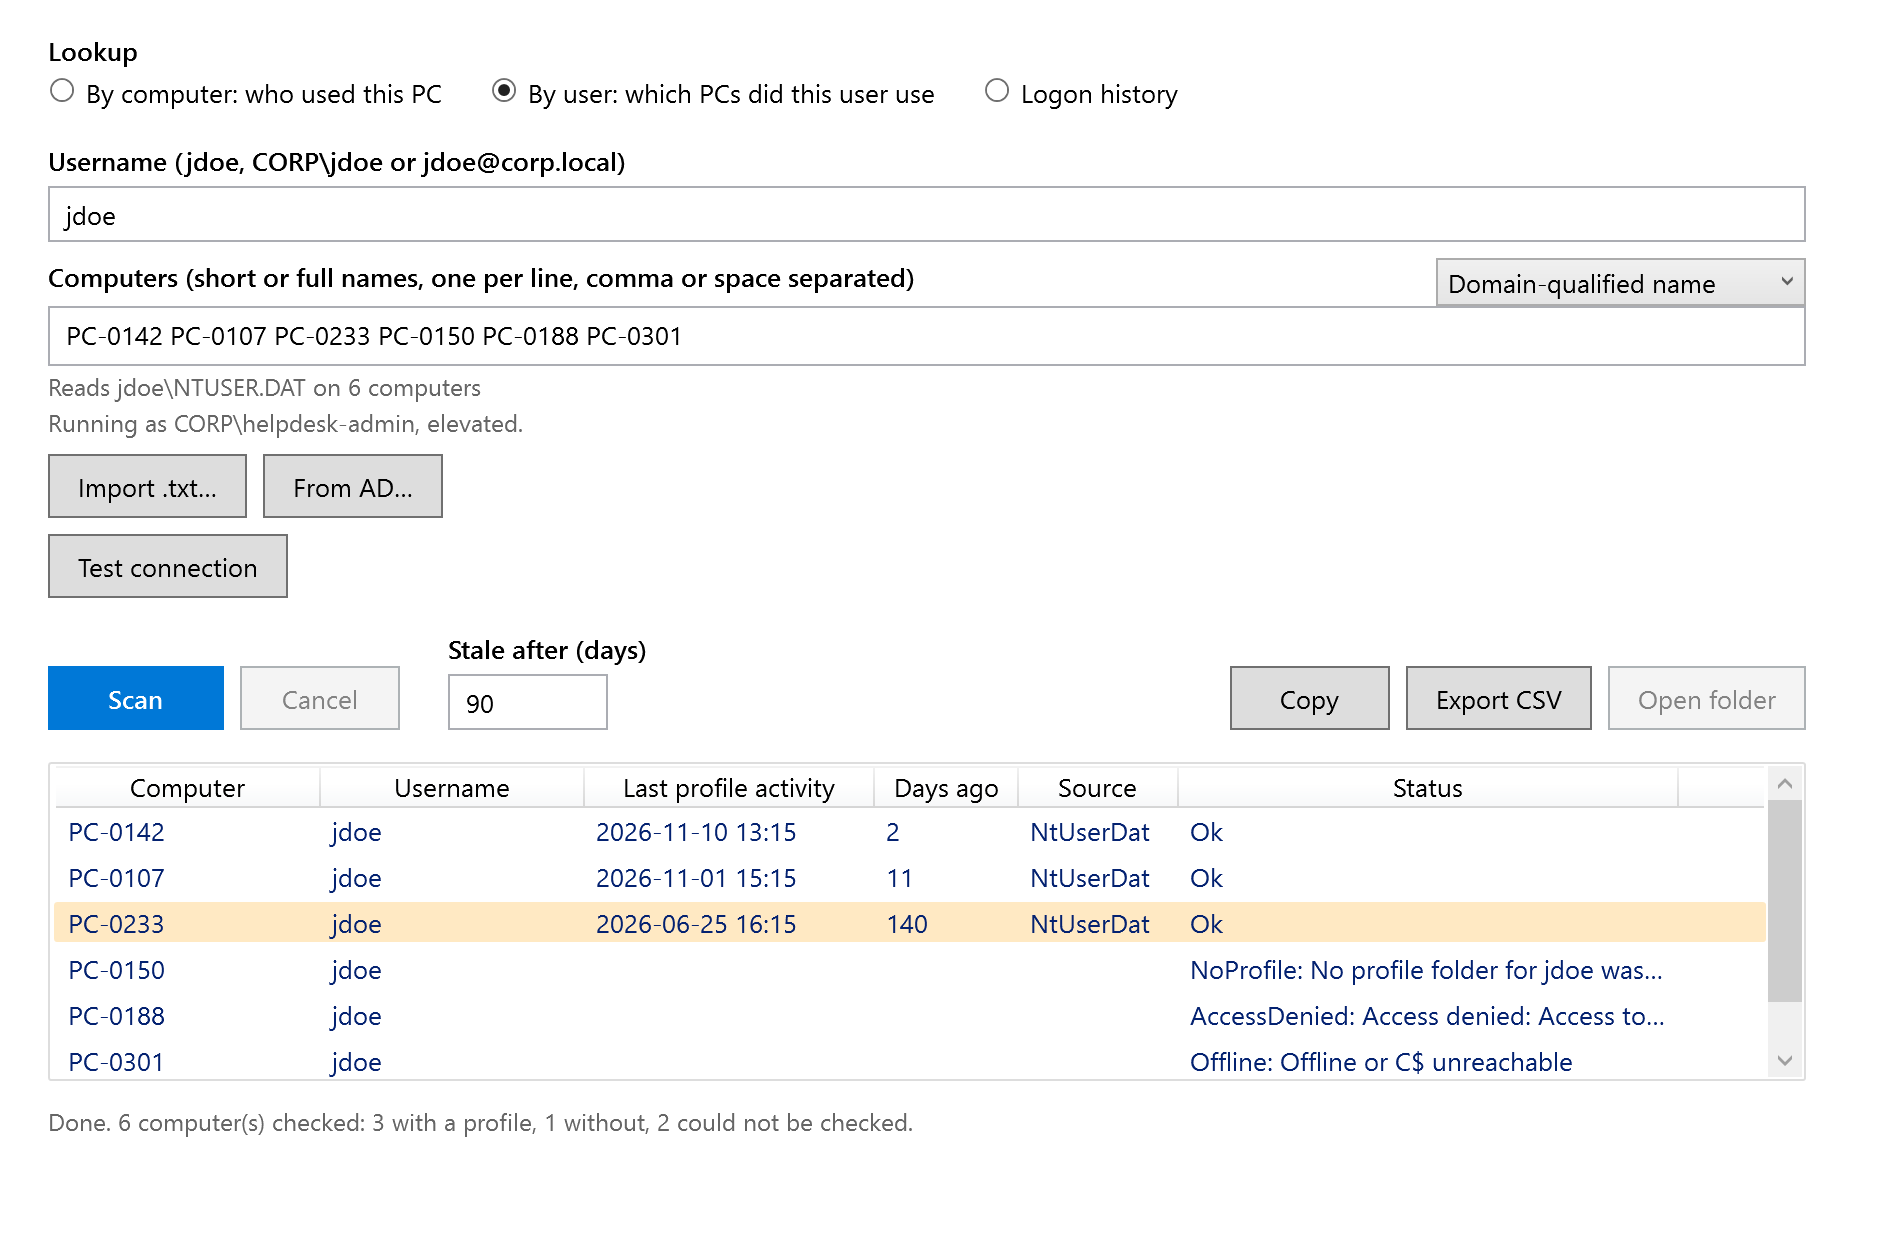
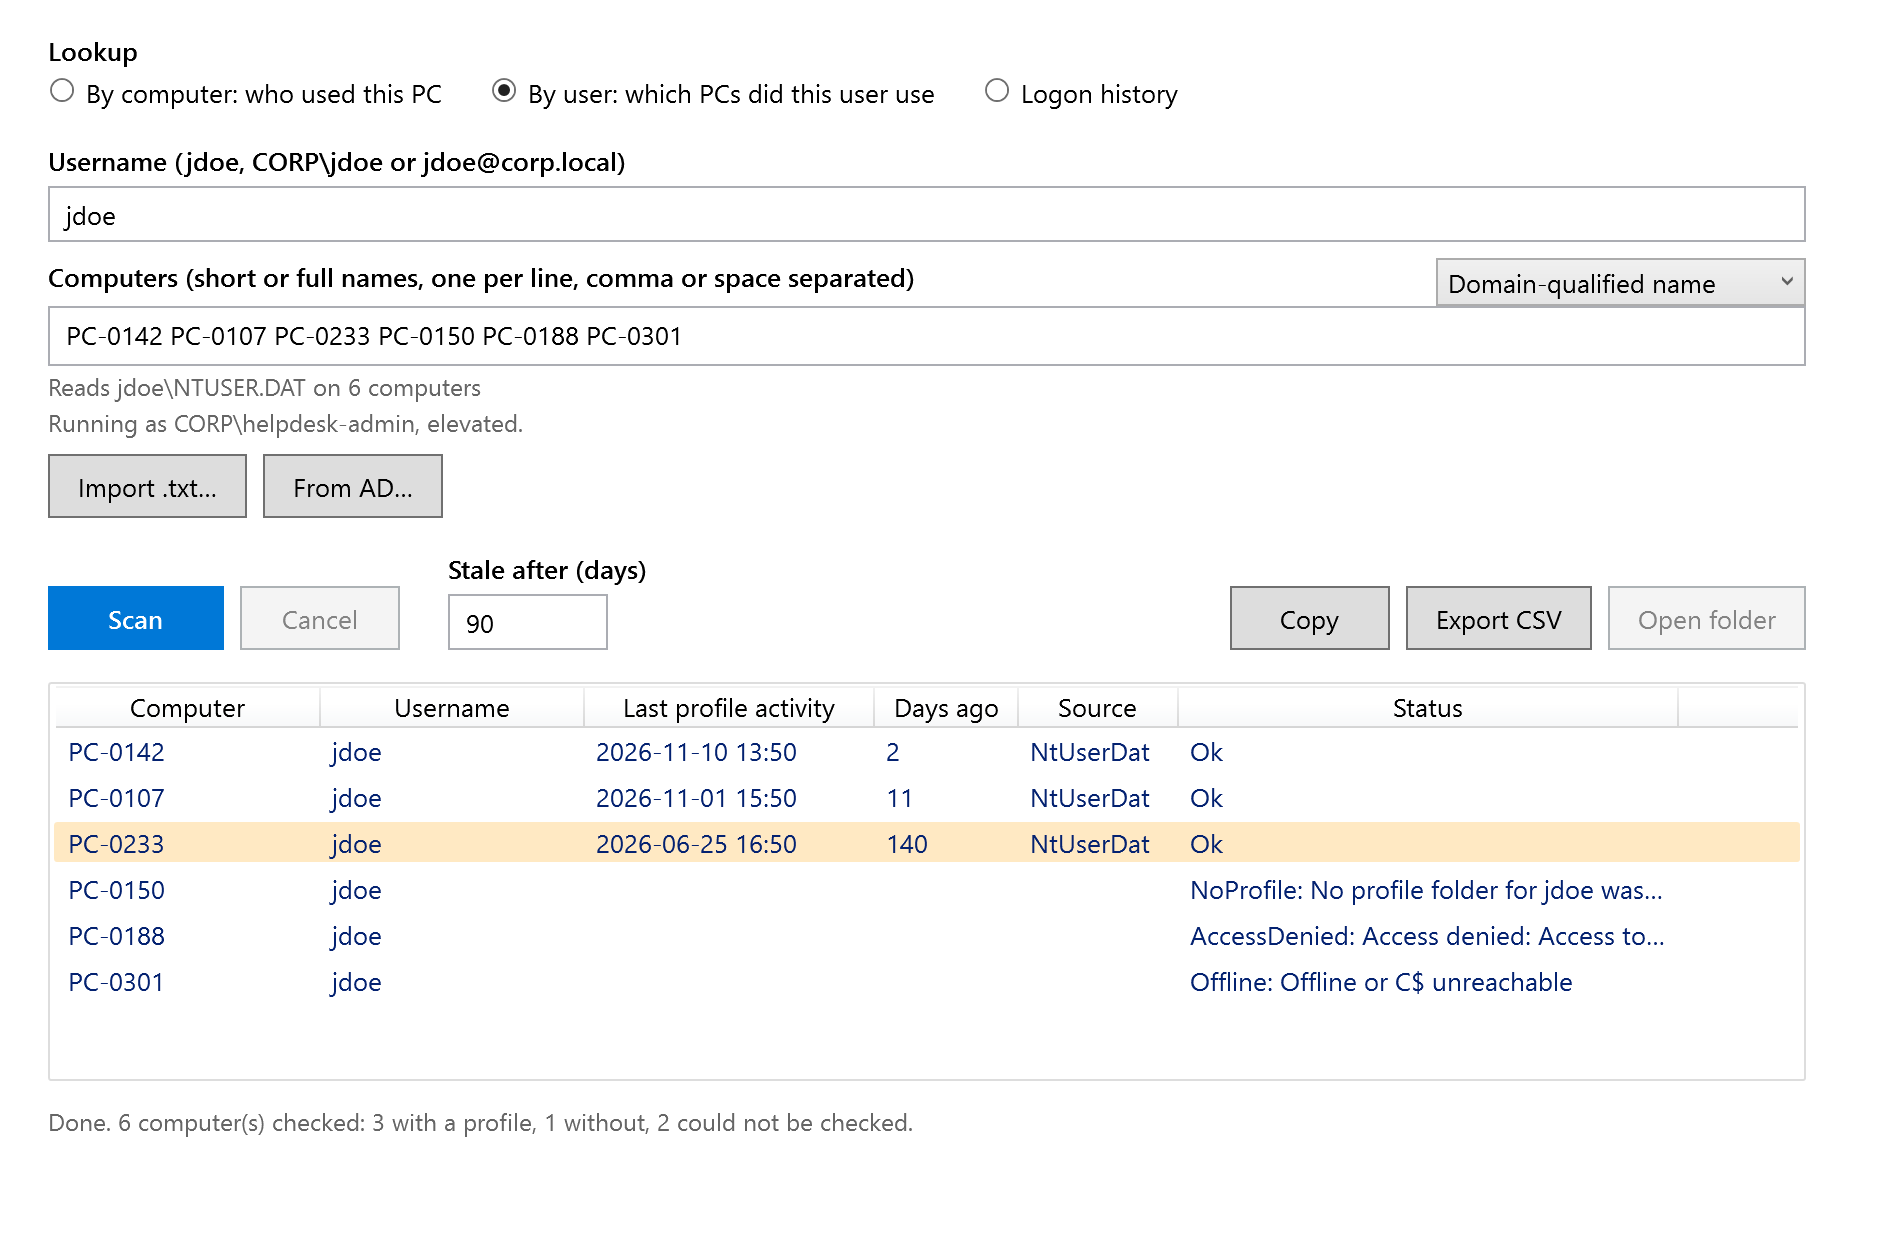
Remove the Test connection button
The button, its status text and its click handler are gone from the window. The
connection check itself stays in Core, because a scan row that fails with access
denied still uses it to show which address each name resolves to.

The sample screenshot is regenerated without the button, and the QA report notes
that the findings which mention it describe the earlier build.

Changed region(s): [[0.0, 0.429, 0.9564, 0.8581], [0.4628, 0.5516, 0.5245, 0.5823]]

diff --git a/ScanWindow.xaml b/ScanWindow.xaml
@@ -96,16 +96,6 @@
                 <Button Content="Import .txt…" Click="Import_Click" Margin="0,0,8,0" />
                 <Button Content="From AD…" Click="FromAd_Click" />
             </StackPanel>
-            <Grid Margin="0,8,0,0">
-                <Grid.ColumnDefinitions>
-                    <ColumnDefinition Width="Auto" />
-                    <ColumnDefinition Width="*" />
-                </Grid.ColumnDefinitions>
-                <Button x:Name="TestButton" Grid.Column="0" Content="Test connection" Click="Test_Click"
-                        ToolTip="Check whether the computer can be reached and which name reaches it" />
-                <TextBlock x:Name="ConnectionTestLabel" Grid.Column="1" Style="{StaticResource Caption}"
-                           Margin="8,0,0,0" VerticalAlignment="Center" TextWrapping="Wrap" />
-            </Grid>
             <StackPanel x:Name="HistoryPanel" Visibility="Collapsed" Margin="0,10,0,0">
                 <Grid>
                     <Grid.ColumnDefinitions>

diff --git a/ScanWindow.xaml.cs b/ScanWindow.xaml.cs
@@ -21,7 +21,6 @@ public partial class ScanWindow : Window
     private readonly MainViewModel _vm;
     private readonly LogonHistoryViewModel _historyVm;
     private bool _hasCompletedScan;
-    private int _connectionTestGeneration;
     private const string LocalDateTimeFormat = "yyyy-MM-dd HH:mm";
 
     public ScanWindow()
@@ -32,9 +31,9 @@ public partial class ScanWindow : Window
             else Dispatcher.BeginInvoke(action);
         };
 
-        // A computer that answers "access denied" is looked into with the same test as the Test
-        // connection button, using the addressing the operator selected, so that the row says
-        // which address each name reaches.
+        // A computer that answers "access denied" is looked into with a connection test, using
+        // the addressing the operator selected, so that the row says which address each name
+        // reaches.
         _vm = new MainViewModel(
             new ProfileScanner(
                 new SmbProfileFileSystem(),
@@ -211,7 +210,6 @@ public partial class ScanWindow : Window
         if (sender == ComputersBox)
         {
             ComputersErrorLabel.Visibility = Visibility.Collapsed;
-            ClearConnectionTest();
             UpdateComputerTargetHint();
         }
 
@@ -227,75 +225,6 @@ public partial class ScanWindow : Window
             StatusLabel.Text = "Ready";
     }
 
-    /// <summary>
-    /// Checks whether the computer can be reached and reports which name reaches it. It is the
-    /// difference between a name that is wrong and a share that cannot be read.
-    /// </summary>
-    private async void Test_Click(object sender, RoutedEventArgs e)
-    {
-        IReadOnlyList<string> computers;
-        try
-        {
-            computers = InputParser.ParseComputers(ComputersBox.Text);
-        }
-        catch (FormatException)
-        {
-            ConnectionTestLabel.Text = "Enter a computer name first.";
-            return;
-        }
-
-        if (computers.Count != 1)
-        {
-            ConnectionTestLabel.Text = "Enter a single computer name to test it.";
-            return;
-        }
-
-        var computer = computers[0];
-        var generation = ++_connectionTestGeneration;
-        ConnectionTestLabel.Text = "Testing " + computer + "…";
-        TestButton.IsEnabled = false;
-        try
-        {
-            var result = await Task.Run(() => ConnectionTest.Run(computer, ComputerTarget.AddressingMode));
-            if (generation == _connectionTestGeneration)
-                ConnectionTestLabel.Text = Describe(result);
-        }
-        catch (Exception ex)
-        {
-            if (generation == _connectionTestGeneration)
-                ConnectionTestLabel.Text = "Test failed: " + ex.Message;
-        }
-        finally
-        {
-            TestButton.IsEnabled = true;
-        }
-    }
-
-    /// <summary>
-    /// Drops a test result that no longer describes the input, so that a result for the
-    /// previous computer is not mistaken for the current one.
-    /// </summary>
-    private void ClearConnectionTest()
-    {
-        _connectionTestGeneration++;
-        if (ConnectionTestLabel is not null) ConnectionTestLabel.Text = string.Empty;
-    }
-
-    private static string Describe(ConnectionTestResult result)
-    {
-        var text = result.Summary;
-
-        // With two names the report lists the address of each, which is the same text a denied
-        // scan row shows. With one name there is nothing to compare, so the address is enough.
-        if (result.Attempts.Count > 1)
-            return text + " " + result.DescribeAttempts();
-
-        if (!string.IsNullOrEmpty(result.ResolvedAddress))
-            text += $" Resolves to {result.ResolvedAddress}.";
-
-        return text;
-    }
-
     private void AddressingCombo_SelectionChanged(object sender, SelectionChangedEventArgs e)
     {
         if (AddressingCombo is null || AddressingCombo.SelectedIndex is not (0 or 1)) return;
@@ -304,7 +233,6 @@ public partial class ScanWindow : Window
             ? ComputerTarget.Addressing.ShortName
             : ComputerTarget.Addressing.DomainQualified;
 
-        ClearConnectionTest();
         UpdateComputerTargetHint();
     }
 

diff --git a/docs/qa/2026-11-12-qa-audit.md b/docs/qa/2026-11-12-qa-audit.md
@@ -50,6 +50,11 @@ and says a folder with a suffix could not be looked for, instead of an access-de
 account. The Open folder button stays off for `NoProfile` rows, whose folder does not exist. By computer
 is unchanged. The spec was amended to match. 9 tests added (200 total).
 
+**The Test connection button was removed (uncommitted).** The window no longer has the button, its label or
+its handler. Findings that mention it (D-07, D-14) describe the earlier build; D-14 no longer applies. The
+connection check itself stays in Core, because a denied scan row uses it to show which address each name
+reaches.
+
 ## 2. Scope, environment, method
 
 **Scope.** `LastLogon.Core` (all 15 files), the WPF layer (`ScanWindow`, `AdDialog`, `App`), project and
